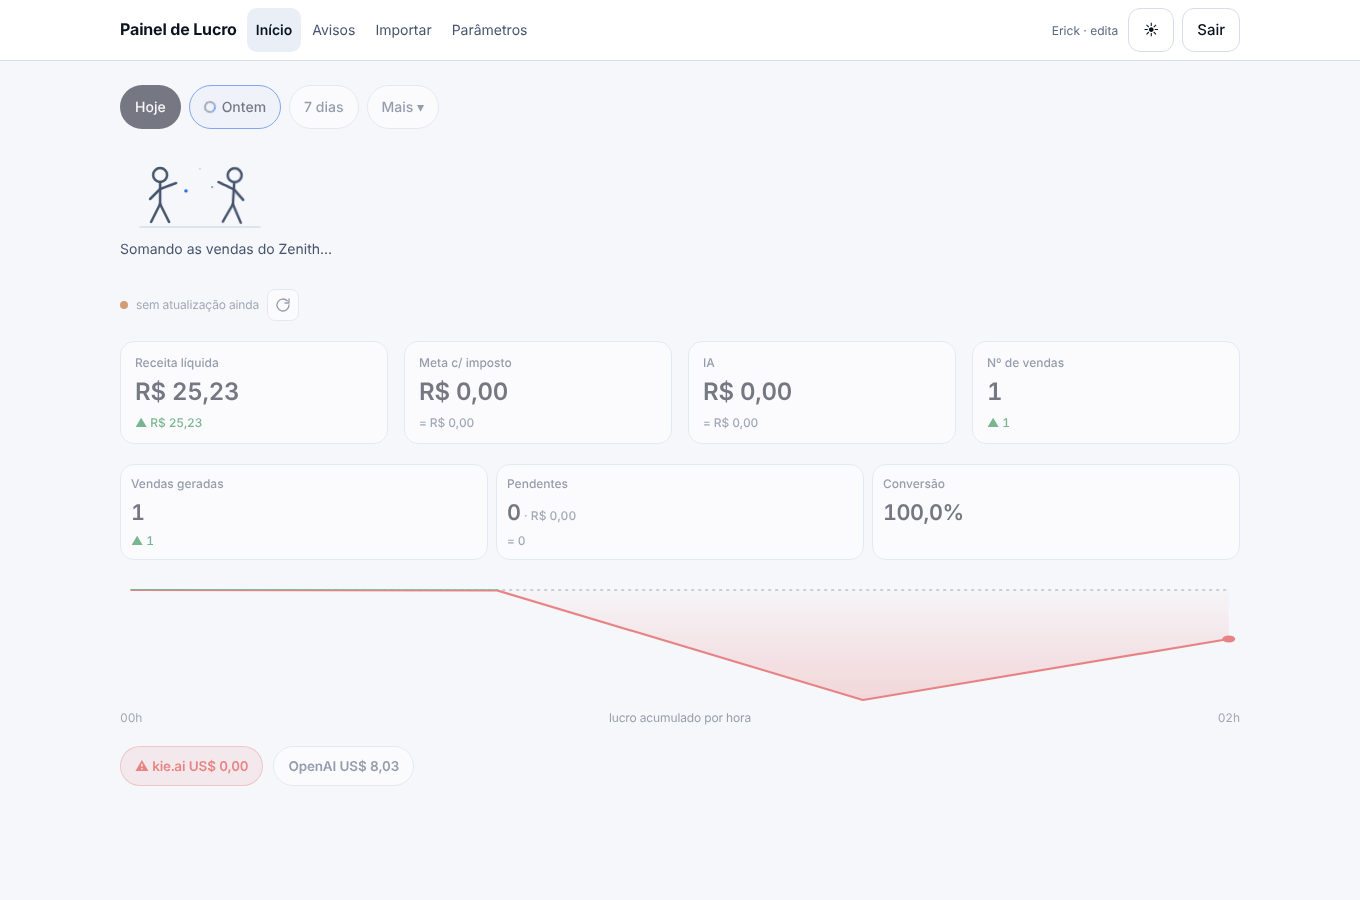
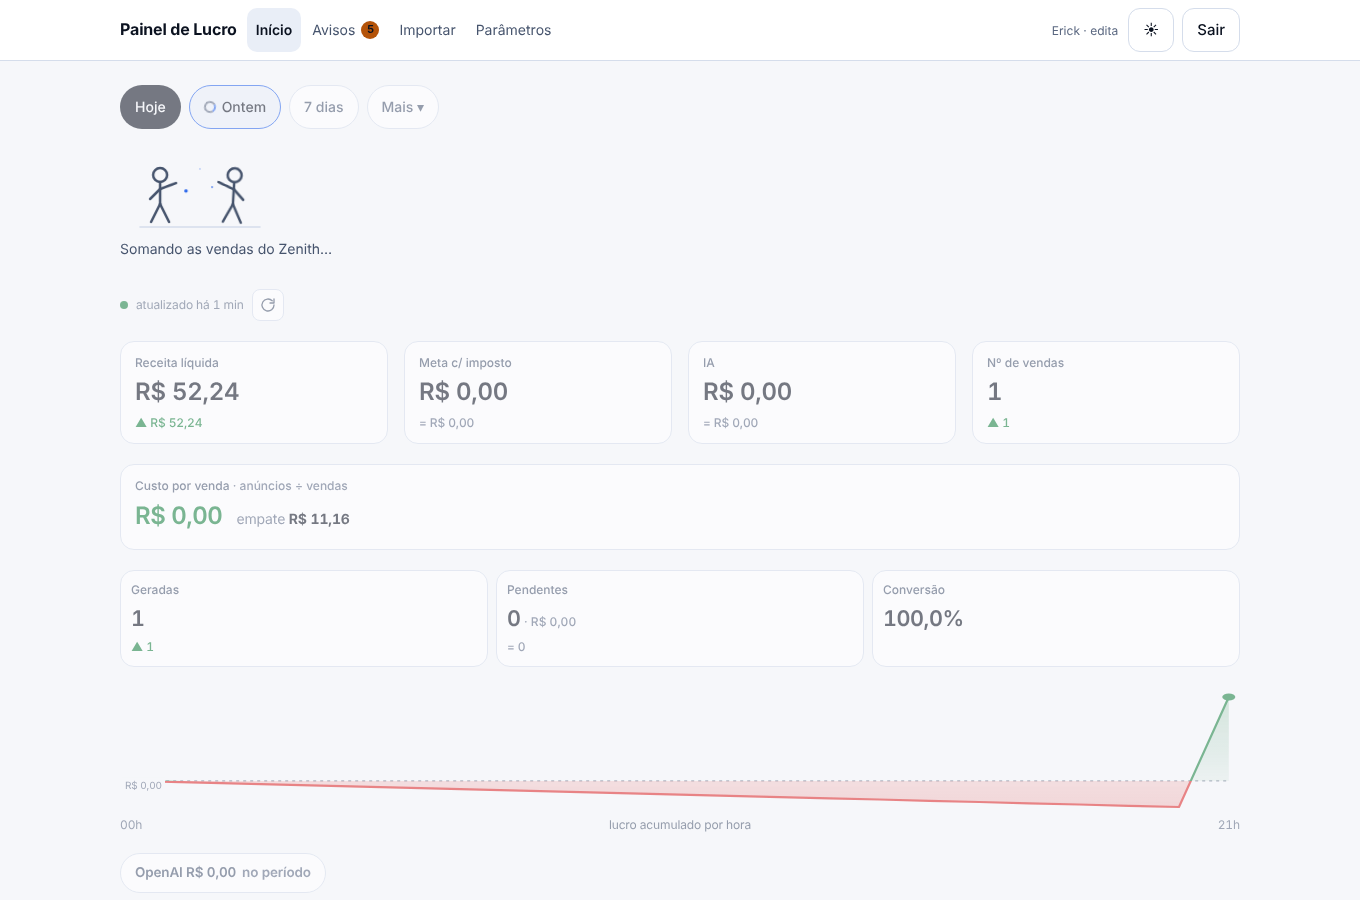
Pedido 5: cartão custo por venda × empate com comparação; selo kie.ai só com consumo em 7 dias e selo OpenAI com gasto do período; balão no gráfico acumulado (toque fixo no iPhone) e rótulo do zero; fetch_types:false no driver e taxa de câmbio memorizada por 10 min; docs
Claude-Session: https://claude.ai/code/session_013YvvEsXnhEqyztXkJ9r3to

diff --git a/src/app/(app)/(inicio)/page.tsx b/src/app/(app)/(inicio)/page.tsx
@@ -90,6 +90,29 @@ export default async function Inicio({ searchParams }: { searchParams: Promise<P
           {bloco("vendas", "Nº de vendas", t.numVendas, a.numVendas, false, true)}
         </section>
 
+        {/* custo por venda × empate (pedido 5, 15/11): anúncios ÷ vendas contra (receita líquida − IA − fixos) ÷ vendas */}
+        {(() => {
+          const cpv = (x: typeof t) => (x.numVendas > 0 ? x.anunciosComImposto / x.numVendas : null);
+          const empate = (x: typeof t) => (x.numVendas > 0 ? (x.receitaLiquida - x.ia - x.zapdata - x.operacao) / x.numVendas : null);
+          const c = cpv(t), e = empate(t), cAnt = cpv(a);
+          const v = textoVariacao(c ?? 0, cAnt, temBaseAnterior && c != null && cAnt != null, "moeda", estado.moeda, taxaMxn);
+          const bom = v.bom == null ? null : !v.bom; // custo menor é melhor
+          const corpo = v.texto.replace(/^[+-]/, "").replace(" vs. anterior", "");
+          const abaixo = c != null && e != null ? c <= e : null;
+          return (
+            <section className="blocos blocos-1" aria-label="Custo por venda">
+              <div className="bloco bloco-largo">
+                <div className="bloco-k">Custo por venda <span className="text-ink-3">· anúncios ÷ vendas</span></div>
+                <div className="bloco-linha">
+                  <div className={`bloco-v num ${abaixo == null ? "" : abaixo ? "pos" : "neg"}`} title={c == null ? "sem vendas no período" : abaixo ? "abaixo do empate: cada venda paga o anúncio e sobra" : "acima do empate: o anúncio custa mais do que a venda deixa"}>{c == null ? "—" : money(c)}</div>
+                  <div className="bloco-empate num"><span className="text-ink-3">empate</span> <b title="(receita líquida − IA − fixos do período) ÷ vendas">{e == null ? "—" : money(e)}</b></div>
+                </div>
+                <div className={`bloco-s num ${bom == null ? "" : bom ? "pos" : "neg"}`} title={v.texto}>{!v.texto ? "" : v.bom == null ? `= ${corpo}` : `${v.texto.startsWith("+") ? "▲" : "▼"} ${corpo}`}</div>
+              </div>
+            </section>
+          );
+        })()}
+
         {/* funil do período (13/11): geradas, pendentes e conversão, na definição da "Taxa de aprovação" da Zenith */}
         <section className="blocos blocos-3" aria-label="Funil de vendas do período">
           {bloco("geradas", "Geradas", fu.geradas, fa.geradas, false, true)}
@@ -121,15 +144,11 @@ export default async function Inicio({ searchParams }: { searchParams: Promise<P
 
         <AreaAcumulado pontos={acum.pontos.map((p) => ({ rotulo: p.rotulo, acumulado: emMoeda(p.acumulado), valor: emMoeda(p.valor) }))} rotuloFim={rotuloFim} gran={acum.gran} moeda={estado.moeda} />
 
-        {creditos && (
-          <div className="saldos-linha num">
-            {[creditos.kie, creditos.openai].map((s) => {
-              const baixo = !!alertaSaldo(s, creditos.limites);
-              const nome = s.fonte === "kie" ? "kie.ai" : "OpenAI";
-              return <a key={s.fonte} href="/parametros#creditos" className={`saldo-item ${baixo ? "saldo-baixo" : ""}`} title={s.indisponivel ?? (s.estimado ? "estimado" : "")}>{baixo ? "⚠ " : ""}{nome} {s.indisponivel ? "—" : fmtUSD(s.saldoUsd)}{s.horasRestantes != null ? <span className="text-ink-3"> · {fmtHorasRestantes(s.horasRestantes)}</span> : null}</a>;
-            })}
-          </div>
-        )}
+        {/* selos (pedido 5): kie.ai só se teve consumo nos últimos 7 dias; OpenAI mostra o gasto do período em R$ */}
+        <div className="saldos-linha num">
+          {creditos && r.kieUso7dUsd > 0 && (() => { const s = creditos.kie; const baixo = !!alertaSaldo(s, creditos.limites); return <a href="/parametros#creditos" className={`saldo-item ${baixo ? "saldo-baixo" : ""}`} title={s.indisponivel ?? ""}>{baixo ? "⚠ " : ""}kie.ai {s.indisponivel ? "—" : fmtUSD(s.saldoUsd)}{s.horasRestantes != null ? <span className="text-ink-3"> · {fmtHorasRestantes(s.horasRestantes)}</span> : null}</a>; })()}
+          <a href="/parametros#creditos" className="saldo-item" title={creditos?.openai.saldoUsd != null ? `saldo estimado ${fmtUSD(creditos.openai.saldoUsd)}` : "gasto da OpenAI no período"}>OpenAI {money(t.iaOpenai)}<span className="text-ink-3"> no período</span></a>
+        </div>
 
       </div>
 

diff --git a/src/components/area-acumulado.tsx b/src/components/area-acumulado.tsx
@@ -9,6 +9,7 @@ export type PontoS = { rotulo: string; acumulado: number; valor: number };
  */
 export function AreaAcumulado({ pontos, rotuloFim, gran, moeda = "BRL" }: { pontos: PontoS[]; rotuloFim: string; gran: "hora" | "dia"; moeda?: "BRL" | "MXN" }) {
   const [sel, setSel] = useState<number | null>(null);
+  const [fixo, setFixo] = useState(false); // no toque, a seleção fica até o próximo toque (no iPhone não há "passar o mouse")
   const W = 600, H = 130, padX = 6, padY = 10;
   if (pontos.length < 2) return <div className="area-lucro text-xs text-ink-3">sem pontos suficientes para o gráfico</div>;
   const vals = [0, ...pontos.map((p) => p.acumulado)];
@@ -21,18 +22,26 @@ export function AreaAcumulado({ pontos, rotuloFim, gran, moeda = "BRL" }: { pont
   const zero = y(0);
   const area = `${linha} L${pts[pts.length - 1][0].toFixed(1)},${zero.toFixed(1)} L${padX},${zero.toFixed(1)} Z`;
   const fmt = (v: number) => new Intl.NumberFormat("pt-BR", { style: "currency", currency: moeda, maximumFractionDigits: 2 }).format(v);
-  const escolher = (e: React.PointerEvent<SVGSVGElement>) => {
-    const r = e.currentTarget.getBoundingClientRect();
-    const px = ((e.clientX - r.left) / r.width) * W;
+  const escolherEm = (clientX: number, alvo: Element) => {
+    const r = alvo.getBoundingClientRect();
+    const px = ((clientX - r.left) / r.width) * W;
     let melhor = 0; for (let i = 1; i < pts.length; i++) if (Math.abs(pts[i][0] - px) < Math.abs(pts[melhor][0] - px)) melhor = i;
     setSel(melhor);
   };
+  const escolher = (e: React.PointerEvent<SVGSVGElement>) => { if (e.pointerType === "touch") setFixo(true); escolherEm(e.clientX, e.currentTarget); };
+  const sair = (e: React.PointerEvent<SVGSVGElement>) => { if (e.pointerType !== "touch" && !fixo) setSel(null); };
   const p = sel != null ? pts[sel] : null;
   const ponto = sel != null && sel > 0 ? pontos[sel - 1] : null;
   const meio = pontos[Math.floor((n - 1) / 2)];
   return (
-    <figure className="area-lucro">
-      <svg viewBox={`0 0 ${W} ${H}`} preserveAspectRatio="none" role="img" aria-label="Lucro líquido acumulado" onPointerMove={escolher} onPointerDown={escolher} onPointerLeave={() => setSel(null)}>
+    <figure className="area-lucro" style={{ position: "relative" }}>
+      <span className="area-zero num" style={{ top: `${(zero / H) * 100}%` }}>{fmt(0)}</span>
+      {ponto && p && (
+        <span className={`area-dica num ${ponto.acumulado >= 0 ? "pos" : "neg"}`} style={{ left: `${(p[0] / W) * 100}%`, top: `${(p[1] / H) * 100}%`, transform: `translate(${p[0] > W * 0.7 ? "-100%" : "8px"}, ${p[1] < H * 0.35 ? "8px" : "-110%"})` }}>
+          <b>{fmt(ponto.acumulado)}</b> · {gran === "hora" ? `até ${ponto.rotulo.replace("h", "")}:59` : ponto.rotulo}
+        </span>
+      )}
+      <svg viewBox={`0 0 ${W} ${H}`} preserveAspectRatio="none" role="img" aria-label="Lucro líquido acumulado" onPointerMove={(e) => { if (e.pointerType !== "touch") escolher(e); }} onPointerDown={escolher} onPointerLeave={sair}>
         <defs>
           <clipPath id="acima"><rect x="0" y="0" width={W} height={zero} /></clipPath>
           <clipPath id="abaixo"><rect x="0" y={zero} width={W} height={H - zero} /></clipPath>

diff --git a/src/app/globals.css b/src/app/globals.css
@@ -142,6 +142,11 @@ body[data-carregando] main > *:not(.inicial), body[data-carregando] .inicial > :
 .blocos-3 .bloco { padding: 10px 10px; }
 .blocos-3 .bloco-v { font-size: clamp(1.05rem, 3vw, 1.35rem); }
 .bloco-v-sub { font-size: 12px; color: var(--text-3); font-weight: 500; letter-spacing: 0; }
+.blocos-1 { grid-template-columns: 1fr; }
+@media (min-width: 768px) { .blocos-1 { grid-template-columns: 1fr; } }
+.bloco-linha { display: flex; align-items: baseline; gap: 14px; flex-wrap: wrap; }
+.bloco-empate { font-size: 14px; }
+.bloco-v.pos { color: var(--pos); } .bloco-v.neg { color: var(--neg); }
 .bloco { background: var(--surface); border: 1px solid var(--border); border-radius: 14px; padding: 12px 14px; min-width: 0; }
 .bloco-k { font-size: 12px; color: var(--text-2); font-weight: 500; white-space: nowrap; overflow: hidden; text-overflow: ellipsis; }
 .bloco-v { font-size: clamp(1.25rem, 3.2vw, 1.5rem); font-weight: 600; letter-spacing: -0.02em; margin-top: 4px; white-space: nowrap; font-variant-numeric: tabular-nums; }
@@ -149,6 +154,9 @@ body[data-carregando] main > *:not(.inicial), body[data-carregando] .inicial > :
 .bloco-s.pos { color: var(--pos); } .bloco-s.neg { color: var(--neg); }
 .area-lucro { margin: 0; }
 .area-lucro svg { width: 100%; height: 130px; display: block; touch-action: pan-y; cursor: crosshair; }
+.area-zero { position: absolute; left: 2px; transform: translateY(-100%); font-size: 10px; color: var(--text-3); background: var(--bg); padding: 0 3px; pointer-events: none; }
+.area-dica { position: absolute; z-index: 3; font-size: 12px; color: var(--text-2); background: var(--surface); border: 1px solid var(--border); border-radius: 8px; padding: 3px 8px; white-space: nowrap; box-shadow: 0 6px 16px -8px rgba(0,0,0,.4); pointer-events: none; }
+.area-dica.pos b { color: var(--pos); } .area-dica.neg b { color: var(--neg); }
 .ver-detalhes { align-self: flex-start; font-size: 14px; font-weight: 500; color: var(--accent); padding: 8px 0; }
 @media (hover: hover) { .ver-detalhes:hover { text-decoration: underline; } }
 .entra { display: flex; flex-direction: column; gap: 20px; animation: entrar .25s ease-out; }

diff --git a/src/coletores/base.ts b/src/coletores/base.ts
@@ -75,8 +75,12 @@ export async function upsertVendas(rows: NovaVenda[]): Promise<number> {
 
 /** Taxa de câmbio do dia (ou a última anterior); null se não houver nenhuma. */
 export async function taxaDoDia(par: "USDBRL" | "MXNBRL", dia: string): Promise<{ taxa: number; provisoria: boolean } | null> {
-  const [r] = await db.select().from(schema.cambio).where(and(eq(schema.cambio.par, par), sql`${schema.cambio.dia} <= ${dia}`)).orderBy(desc(schema.cambio.dia)).limit(1);
-  return r ? { taxa: Number(r.taxa), provisoria: r.provisoria || r.dia !== dia } : null;
+  // memória de 10 min por (par, dia): a coleta pedia a mesma taxa uma vez por lançamento (15 mil selects em 2 dias); a coleta de câmbio esquece ao gravar
+  const { lembrar } = await import("@/lib/memoria");
+  return lembrar(`cambio:${par}:${dia}`, async () => {
+    const [r] = await db.select().from(schema.cambio).where(and(eq(schema.cambio.par, par), sql`${schema.cambio.dia} <= ${dia}`)).orderBy(desc(schema.cambio.dia)).limit(1);
+    return r ? { taxa: Number(r.taxa), provisoria: r.provisoria || r.dia !== dia } : null;
+  }, { ttlMs: 10 * 60_000, rotulo: "câmbio do dia" });
 }
 
 export function diaBrasilia(d: Date): string {

diff --git a/src/lib/resumos.ts b/src/lib/resumos.ts
@@ -35,6 +35,7 @@ export type ResumoInicial = {
   coletas: Record<string, ColetaS>;
   avisosTipos: string[];
   creditos: CreditosS | null;
+  kieUso7dUsd: number; // uso da kie.ai nos últimos 7 dias: zero = selo escondido na inicial
   problemas: string[];
 };
 export type Extras = { coletas: Map<string, EstadoColeta>; avisosTipos: string[]; creditos: Creditos | null };
@@ -59,6 +60,7 @@ export function montarResumo(entrada: Entrada, estado: EstadoPeriodo, extras: Ex
     acum: { gran: acum.gran, pontos: acum.pontos.map((p) => ({ rotulo: p.rotulo, valor: p.valor, acumulado: p.acumulado })) },
     hoje: hoje.totais, taxaMxn: entrada.opcoes.cambio("MXNBRL", estado.agora),
     coletas, avisosTipos: extras.avisosTipos,
+    kieUso7dUsd: entrada.lancamentos.filter((l) => l.fonte === "kie" && l.tipo === "uso_ia" && l.instante.getTime() >= estado.agora.getTime() - 7 * 86_400_000).reduce((s, l) => s + l.valorOriginal, 0),
     creditos: cr ? { ...cr, kie: { ...cr.kie, lidoEm: cr.kie.lidoEm?.toISOString() ?? null }, openai: { ...cr.openai, lidoEm: cr.openai.lidoEm?.toISOString() ?? null } } : null,
     problemas,
   };

diff --git a/tests/zenith-csv.test.ts b/tests/zenith-csv.test.ts
@@ -39,6 +39,7 @@ describe.skipIf(!process.env.DATABASE_URL)("importação do CSV + dedup com webh
   });
   it("fim de semana usa a última PTAX até a data (sexta 02/10); líquido listado + reserva = líquido antes da reserva", async () => {
     await db.execute(sql`insert into cambio (dia, par, taxa, fonte) values ('2026-10-02','MXNBRL','0.30','ptax'), ('2026-10-01','MXNBRL','0.29','ptax')`);
+    (await import("../src/lib/memoria")).esquecerMemoria("cambio:"); // taxaDoDia fica em memória 10 min; aqui a taxa foi gravada direto
     const r = await importar(lerCsvConciliacaoZenith(CSV));
     expect(r.ok).toBe(true); expect(r.registros).toBe(3);
     const vs = await db.select().from(schema.vendas);

diff --git a/src/db/index.ts b/src/db/index.ts
@@ -16,7 +16,7 @@ if (!url) throw new Error("DATABASE_URL não definida");
  *   deixamos o antigo fechar sozinho e repetimos a consulta uma vez num cliente novo.
  */
 function criarSql() {
-  return postgres(url!, { max: 6, prepare: false, idle_timeout: 20, connect_timeout: 8, onnotice: () => {} }); // 6: uma página abre várias consultas em paralelo; com 3 elas entravam em fila
+  return postgres(url!, { max: 6, prepare: false, idle_timeout: 20, connect_timeout: 8, fetch_types: false, onnotice: () => {} }); // 6: uma página abre várias consultas em paralelo; com 3 elas entravam em fila
 }
 
 type Db = PostgresJsDatabase<typeof schema>;

diff --git a/src/coletores/cambio.ts b/src/coletores/cambio.ts
@@ -53,6 +53,7 @@ export const clienteReal: CambioCliente = {
 async function gravar(dia: string, par: string, taxa: number, fonte: string, provisoria = false) {
   await db.insert(schema.cambio).values({ dia, par, taxa: String(taxa), fonte, provisoria })
     .onConflictDoUpdate({ target: [schema.cambio.dia, schema.cambio.par], set: { taxa: String(taxa), provisoria, fonte, coletadoEm: new Date() } });
+  (await import("@/lib/memoria")).esquecerMemoria("cambio:"); // taxaDoDia memorizada: a nova taxa vale já
 }
 
 /** Última PTAX USD até o dia (na tabela). */

diff --git a/docs/pendencias.md b/docs/pendencias.md
@@ -190,3 +190,9 @@ Supabase cortou o projeto antigo por saída de rede (23 GB). Mudança para o pro
 - /avisos: 3 consultas; /parametros: 5 (telas raras).
 
 **O que esperar no pg_stat_statements por hora:** `select status, moeda, historico, fonte, (case when criada_em …` = 6; `select fonte, tipo, moeda, historico, estimado, conta_id …` = 6; `select … from resumos where chave = $1` = 1 por abertura de tela (+ 80/h se a aba ficar aberta, pela linha `vivo:hoje`); `insert into resumos …` = 6. Saída esperada: bem abaixo de 40 MB/dia.
+
+## 16/11 — pedido 5 (inicial)
+- **Custo por venda** = anúncios com imposto ÷ vendas aprovadas; **empate** = (receita líquida − IA − ZapData − operação) ÷ vendas. Verde abaixo do empate, vermelho acima; comparação com o período anterior (custo menor = melhor). Sem vendas: "—". Tudo vem da linha pronta (totais), sem leitura extra.
+- Selos: kie.ai só aparece se teve consumo nos últimos 7 dias (`kieUso7dUsd` na linha pronta; segue em /avisos); o selo da OpenAI mostra o gasto do período em R$ (saldo estimado no título ao tocar).
+- Gráfico acumulado: tocar (fica fixo até o próximo toque) ou passar o mouse mostra valor e hora num balão; linha do zero com "R$ 0,00".
+- Técnico: `fetch_types: false` no postgres.js (acaba com o `select b.oid, b.typarray …` a cada conexão); `taxaDoDia` fica 10 min em memória por (par, dia) e a coleta de câmbio esquece ao gravar (acaba com um select de câmbio por lançamento).
